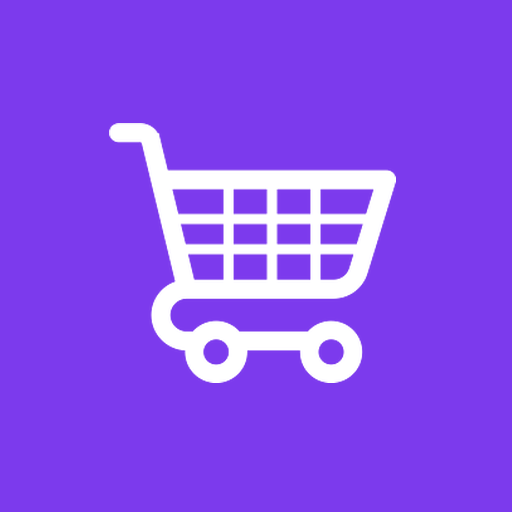
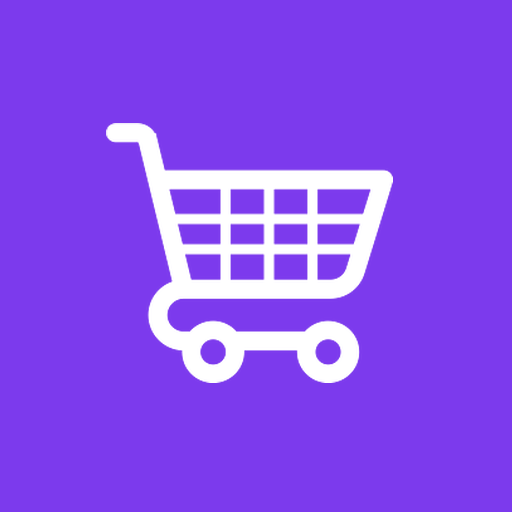
feat: detalle de prenda sin precios repetidos, historial con existencia inicial, ajustes por modo, comisiones con puntos, categorías deslizables e ícono centrado (v1.18)
Claude-Session: https://claude.ai/code/session_01DhVgd7Et6QmT3shziodnjZ

diff --git a/js/vistas/inventario.js b/js/vistas/inventario.js
@@ -11,6 +11,7 @@ import { comprimirFoto, CLAVE_TOKEN } from '../datos/github-fotos.js';
 
 export const URL_INVENTARIO = 'https://kdnaskrlos.github.io/App-Inventario/data/inventario.json';
 const MOTIVOS = ['Conteo', 'Daño', 'Regalo', 'Llegó del taller', 'Otro'];
+const MOTIVO_TEXTO = { inicial: 'Existencia inicial', importación: 'Importación', venta: 'Venta', apartado: 'Apartado', anulación: 'Anulación', cancelación: 'Cancelación' };
 const norm = s => String(s || '').normalize('NFD').replace(/\p{Diacritic}/gu, '').toLowerCase();
 const plural = (n, uno, varios) => `${n} ${n === 1 ? uno : varios}`;
 
@@ -53,8 +54,8 @@ function abrirHistorial(ctx, p) {
   const quitar = ctx.almacen.escuchar('movimientos', l => {
     const lista = l.sort((a, b) => b.fecha.localeCompare(a.fecha)).slice(0, 60);
     caja.replaceChildren(...(lista.length ? lista.map(m => h('div', { class: 'mov' },
-      h('span', {}, `${m.motivo}${m.nota ? ' · ' + m.nota : ''}`, h('span', { class: 'nota' }, ` · ${fechaHora(m.fecha)} · @${m.usuario || '—'}`)),
-      h('b', { class: 'num ' + (m.cantidad < 0 ? 'neg' : 'pos') }, `${m.cantidad > 0 ? '+' : ''}${m.cantidad}`))) : [h('p', { class: 'nota' }, 'Sin movimientos.')]));
+      h('span', {}, `${MOTIVO_TEXTO[m.motivo] || m.motivo}${m.nota ? ' · ' + m.nota : ''}`, h('span', { class: 'nota' }, ` · ${fechaHora(m.fecha)} · @${m.usuario || '—'}`)),
+      h('b', { class: 'num ' + (m.cantidad < 0 ? 'neg' : 'pos') }, `${m.cantidad > 0 ? '+' : ''}${m.cantidad}`))) : [h('p', { class: 'nota' }, `Sin movimientos registrados. Existencia actual: ${p.existencia}.`)]));
   }, { sku: p.sku });
   v.alCerrar = quitar;
 }
@@ -77,19 +78,30 @@ function abrirOferta(ctx, g) {
   });
 }
 
+const mismos = (xs, f) => xs.every(x => JSON.stringify(f(x)) === JSON.stringify(f(xs[0])));
+
+function bloquePrecios(ctx, p, costo, verCostos) {
+  return h('div', { class: 'precios' }, ...p.precios.map((pr, i) => h('div', { class: 'precio-tramo' }, h('span', { class: 'nota' }, etiquetaTramo(i, ctx.ajustes.tramos)), h('b', { class: 'num' }, pr ? fmtCop(pr) : '—'))),
+    verCostos ? h('div', { class: 'precio-tramo costo' }, h('span', { class: 'nota' }, 'Costo'), h('b', { class: 'num' }, costo != null ? fmtCop(costo) : '—')) : null);
+}
+
+// Detalle de una prenda: precios una sola vez (si son iguales en todas las tallas) y una fila por talla.
 function abrirGrupo(ctx, g, costos) {
-  const aj = ctx.ajustes;
   const verCostos = ctx.puedeVer('verCostos');
+  const vs = g.variantes.sort((a, b) => a.sku.localeCompare(b.sku, 'es', { numeric: true }));
+  const iguales = mismos(vs, p => [p.precios, costos[p.sku]?.costo ?? null]);
+  const oferta = vs.find(p => p.oferta?.activa)?.oferta;
   const cont = h('div', { class: 'pila detalle-grupo' },
-    g.variantes.sort((a, b) => a.sku.localeCompare(b.sku, 'es', { numeric: true })).map(p => h('div', { class: 'variante', 'data-sku': p.sku },
-      h('div', { class: 'var-cab' },
-        h('b', {}, `Talla ${p.talla || '—'}`), h('span', { class: `est ${colorExistencia(p)}` }, `${p.existencia} disp.`),
-        p.oferta?.activa ? h('span', { class: 'est y' }, `Oferta ${p.oferta.pct}%`) : null,
-        h('span', { class: 'nota' }, p.codigo ? `Código ${p.codigo}` : p.sku)),
-      h('div', { class: 'precios' }, ...p.precios.map((pr, i) => h('div', { class: 'precio-tramo' }, h('span', { class: 'nota' }, etiquetaTramo(i, aj.tramos)), h('b', { class: 'num' }, pr ? fmtCop(pr) : '—'))),
-        verCostos ? h('div', { class: 'precio-tramo costo' }, h('span', { class: 'nota' }, 'Costo'), h('b', { class: 'num' }, costos[p.sku]?.costo != null ? fmtCop(costos[p.sku].costo) : '—')) : null),
-      ctx.puedeVer('verCostos') || puedeAdmin(ctx, 'ajustarInventario') ? h('div', { class: 'acciones' },
-        ctx.puedeVer('verCostos') ? h('button', { class: 'btn', onclick: () => abrirHistorial(ctx, p) }, icono('historial'), 'Historial') : null,
+    oferta ? h('span', { class: 'est y' }, `Oferta ${oferta.pct}%`) : null,
+    iguales ? h('div', { class: 'pila' }, h('div', { class: 'sec-m' }, 'PRECIO POR CANTIDAD'), bloquePrecios(ctx, vs[0], costos[vs[0].sku]?.costo, verCostos)) : null,
+    h('div', { class: 'sec-m' }, 'TALLAS'),
+    vs.map(p => h('div', { class: 'talla-fila', 'data-sku': p.sku },
+      h('div', { class: 'tf-info' },
+        h('div', { class: 'var-cab' }, h('b', {}, `Talla ${p.talla || '—'}`), h('span', { class: `est ${colorExistencia(p)}` }, `${p.existencia} disp.`)),
+        h('span', { class: 'nota' }, p.codigo ? `Código ${p.codigo}` : p.sku),
+        iguales ? null : bloquePrecios(ctx, p, costos[p.sku]?.costo, verCostos)),
+      verCostos || puedeAdmin(ctx, 'ajustarInventario') ? h('div', { class: 'acciones' },
+        verCostos ? h('button', { class: 'btn', 'aria-label': `Historial talla ${p.talla}`, onclick: () => abrirHistorial(ctx, p) }, icono('historial'), 'Historial') : null,
         puedeAdmin(ctx, 'ajustarInventario') ? h('button', { class: 'btn', onclick: () => abrirAjuste(ctx, p) }, icono('caja'), 'Ajustar') : null) : null)));
   const acciones = puedeAdmin(ctx, 'ofertas') ? h('div', { class: 'acciones' }, h('button', { class: 'btn', onclick: () => abrirOferta(ctx, g) }, icono('etiqueta'), 'Oferta')) : null;
   abrirVentana({ titulo: `${g.producto}${g.color ? ' · ' + g.color : ''}`, contenido: cont, acciones });
@@ -191,7 +203,7 @@ registrarVista('/inventario', {
         return h('button', { class: 'grupo-inv', 'data-grupo': g.grupo, onclick: () => abrirGrupo(ctx, g, costos) },
           h('div', { class: 'mini-foto' }, g.foto ? h('img', { src: g.foto, alt: '' }) : icono('franela')),
           h('div', { class: 'gi-info' }, h('b', {}, g.producto), h('div', { class: 'nota' }, [g.color, plural(total, 'unidad', 'unidades')].filter(Boolean).join(' · ')),
-            h('div', { class: 'mini-tallas' }, ...g.variantes.map(p => h('span', { class: `est ${colorExistencia(p)}` }, `${p.talla || p.sku} ${p.existencia}`)))));
+            h('div', { class: 'mini-tallas' }, ...g.variantes.map(p => h('span', { class: `est ${colorExistencia(p)}` }, `T${p.talla || p.sku} · ${p.existencia}`)))));
       }) : [h('div', { class: 'vacio' }, busqueda ? 'No hay prendas con esa búsqueda' : 'Todavía no hay productos')]));
       if (ctx.puedeVer('verCostos')) {
         const v = valorInventario(Object.values(ctx.productos), costos);

diff --git a/js/vistas/ajustes.js b/js/vistas/ajustes.js
@@ -8,16 +8,35 @@ import { NOMBRE_ROL, cambiarTema } from './cuenta.js';
 
 const campo = (id, etiqueta, attrs = {}) => h('div', { class: 'campo' }, h('label', { for: id }, etiqueta), h('input', { class: 'inp', id, autocomplete: 'off', ...attrs }));
 const seccion = (titulo, ic, ...hijos) => h('section', { class: 'tarjeta pila' }, h('h2', { class: 'sec-t' }, icono(ic), titulo), ...hijos);
+// Monto de comisión: se muestra con punto de miles (4.000); vacío = usa el tramo anterior.
+const montoCom = (id, valor, ejemplo, alCambiar) => {
+  const inp = h('input', { class: 'inp num', id, inputmode: 'numeric', value: valor != null ? fmtCop(valor) : '', placeholder: ejemplo, 'aria-label': id.endsWith('normal') ? 'Comisión normal' : 'Comisión reducida' });
+  inp.addEventListener('input', () => alCambiar(parseMonto(inp.value, 'COP')));
+  inp.addEventListener('blur', () => { const n = parseMonto(inp.value, 'COP'); inp.value = n != null ? fmtCop(n) : ''; });
+  return inp;
+};
 const guardado = r => toast(r.ok ? 'Guardado' : 'No se pudo guardar', { malo: !r.ok });
 
 function tasas(ctx) {
   const aj = ctx.ajustesTasas || {};
-  const modo = h('select', { class: 'inp', id: 'aj-bs-modo' }, ...[['binance', 'Binance P2P (automático)'], ['bcv', 'BCV oficial (automático)'], ['manual', 'Manual']].map(([v, t]) => h('option', { value: v, selected: (aj.bsModo || 'binance') === v }, t)));
+  // Modo de la tasa de Bs con botones (no la lista del teléfono) y solo el campo que aplica a cada modo.
+  const modo = { value: aj.bsModo || 'binance' };
+  const MODOS = [['binance', 'Binance', 'Automático desde Binance P2P, más el recargo.'], ['bcv', 'BCV', 'Automático, dólar oficial del BCV.'], ['manual', 'Manual', 'La escribes tú.']];
+  const segModo = h('div', { class: 'segmentado', id: 'aj-bs-modo', role: 'group', 'aria-label': 'Bolívares por dólar' });
+  const ayuda = h('p', { class: 'nota chica' });
+  const recargo = campo('aj-recargo', 'Recargo sobre Binance (Bs)', { inputmode: 'decimal', value: aj.bsRecargo != null ? fmtDec(aj.bsRecargo) : '' });
+  const manualC = campo('aj-bs-manual', 'Tasa manual de Bs', { inputmode: 'decimal', value: aj.bsManual ? fmtDec(aj.bsManual) : '' });
+  const pintarModo = () => {
+    segModo.replaceChildren(...MODOS.map(([v, t]) => h('button', { type: 'button', 'data-modo': v, 'aria-pressed': String(v === modo.value), onclick: () => { modo.value = v; pintarModo(); } }, t)));
+    ayuda.textContent = MODOS.find(m => m[0] === modo.value)[2];
+    recargo.hidden = modo.value !== 'binance';
+    manualC.hidden = modo.value !== 'manual';
+  };
+  pintarModo();
   const el = seccion('Tasas', 'monedas',
     campo('aj-cop', 'Pesos por dólar (COP)', { inputmode: 'decimal', value: aj.copPorUsd ? fmtCop(aj.copPorUsd) : '' }),
-    h('div', { class: 'campo' }, h('label', { for: 'aj-bs-modo' }, 'Bolívares por dólar'), modo),
-    campo('aj-recargo', 'Recargo sobre Binance (Bs)', { inputmode: 'decimal', value: aj.bsRecargo != null ? fmtDec(aj.bsRecargo) : '' }),
-    campo('aj-bs-manual', 'Tasa manual de Bs', { inputmode: 'decimal', value: aj.bsManual ? fmtDec(aj.bsManual) : '' }),
+    h('div', { class: 'campo' }, h('label', {}, 'Bolívares por dólar'), segModo, ayuda),
+    recargo, manualC,
     h('div', { class: 'acciones' }, h('button', { class: 'btn primary', id: 'aj-tasas-guardar', onclick: async () => {
       const v = (id, m) => parseMonto(el.querySelector('#' + id).value, m);
       const ahora = new Date().toISOString();
@@ -41,14 +60,14 @@ function general(ctx) {
     h('h3', { class: 'sub-t' }, 'Formas de pago'),
     h('div', { class: 'pila' }, ...formas.map(f => h('div', { class: 'forma-aj' },
       h('input', { class: 'inp', value: f.nombre, 'aria-label': 'Nombre', oninput: e => { f.nombre = e.target.value; } }),
-      h('span', { class: 'nota' }, NOMBRE_MONEDA[f.moneda]),
+      h('span', { class: `nota ${{ COP: 'c-cop', USD: 'c-usd', BS: 'c-bs' }[f.moneda]}` }, NOMBRE_MONEDA[f.moneda]),
       h('label', { class: 'interruptor' }, h('input', { type: 'checkbox', checked: f.activa !== false, onchange: e => { f.activa = e.target.checked; } }), 'Activa')))),
     h('h3', { class: 'sub-t' }, 'Tramos (desde cuántas prendas)'),
     h('div', { class: 'rejilla-aj' }, ...tramos.map((t, i) => h('div', { class: 'campo' }, h('label', {}, `Tramo ${i + 1}`), h('input', { class: 'inp num', inputmode: 'numeric', value: String(t), disabled: i === 0, oninput: e => { tramos[i] = Number(e.target.value) || tramos[i]; } })))),
     h('h3', { class: 'sub-t' }, 'Comisión por prenda (si el producto no trae la suya)'),
     h('div', { class: 'rejilla-aj' }, ...coms.map((c, i) => h('div', { class: 'campo' }, h('label', {}, `${etiquetaTramo(i, tramos)}: normal / reducida`),
-      h('div', { class: 'dos' }, h('input', { class: 'inp num', inputmode: 'numeric', value: c ? String(c.valor) : '', placeholder: '—', oninput: e => { const n = parseMonto(e.target.value, 'COP'); coms[i] = n == null ? null : { tipo: 'Fijo', valor: n, reducida: coms[i]?.reducida ?? n }; } }),
-        h('input', { class: 'inp num', inputmode: 'numeric', value: c ? String(c.reducida) : '', placeholder: '—', oninput: e => { const n = parseMonto(e.target.value, 'COP'); if (coms[i]) coms[i].reducida = n ?? coms[i].valor; } }))))),
+      h('div', { class: 'dos' }, montoCom(`aj-com-${i}-normal`, c ? c.valor : null, i ? `Igual que ${etiquetaTramo(i - 1, tramos)}` : '', n => { coms[i] = n == null ? null : { ...(coms[i] || { tipo: 'Fijo' }), valor: n, reducida: coms[i]?.reducida ?? n }; }),
+        montoCom(`aj-com-${i}-reducida`, c ? c.reducida : null, i ? `Igual que ${etiquetaTramo(i - 1, tramos)}` : '', n => { if (coms[i]) coms[i].reducida = n ?? coms[i].valor; }))))),
     h('div', { class: 'acciones' }, h('button', { class: 'btn primary', onclick: async () => {
       for (let i = 1; i < tramos.length; i++) if (tramos[i] <= tramos[i - 1]) { toast('Cada tramo debe empezar después del anterior', { malo: true }); return; }
       const v = id => el.querySelector('#' + id).value;

diff --git a/css/componentes.css b/css/componentes.css
@@ -353,3 +353,22 @@ button.pill.vieja>span{background:var(--y-bg);border-color:var(--y-bd)}
 .cal-resumen{text-align:center}
 /* Personas en comisiones */
 .segmentado.personas{max-width:420px}
+
+/* Detalle de prenda: una fila por talla */
+.talla-fila{display:flex;justify-content:space-between;align-items:center;gap:10px;flex-wrap:wrap;border-top:1px solid var(--line);padding-top:10px}
+.tf-info{display:flex;flex-direction:column;gap:4px;min-width:0;flex:1}
+/* Inventario en el teléfono: valores en una fila compacta */
+@media (max-width:760px){
+  .valor-inv{grid-template-columns:1fr 1fr;gap:8px}
+  .valor-inv .tile{padding:10px 12px}
+  .valor-inv .tile .val{font-size:18px;margin-top:2px}
+  .filtros{flex-wrap:nowrap;overflow-x:auto;scrollbar-width:none;margin:0 -12px;padding:0 12px}
+  .filtros::-webkit-scrollbar{display:none}
+  .filtros .chip{flex:none}
+}
+
+/* Ajustes: formas de pago con el nombre completo a lo ancho */
+@media (max-width:760px){
+  .forma-aj{grid-template-columns:minmax(0,1fr) auto;row-gap:2px}
+  .forma-aj .inp{grid-column:1/-1}
+}

diff --git a/js/datos/memoria.js b/js/datos/memoria.js
@@ -21,7 +21,10 @@ export function crearMemoria(datos) {
     col.usuarios.set(uid, { uid, usuario: u.usuario, nombre: u.nombre, rol: u.rol, activo: true });
     pins.set(uid, u.pin);
   }
-  for (const p of datos.productos || []) col.productos.set(p.sku, copia(p));
+  for (const p of datos.productos || []) {
+    col.productos.set(p.sku, copia(p));
+    if (p.existencia) col.movimientos.set('ini-' + p.sku, { id: 'ini-' + p.sku, sku: p.sku, cantidad: p.existencia, motivo: 'inicial', ref: null, nota: '', usuario: 'admin', fecha: new Date(Date.now() - 864e5).toISOString() });
+  }
   for (const c of datos.costos || []) col.costos.set(c.sku, copia(c));
   for (const c of datos.clientes || []) col.clientes.set(c.telefono, copia(c));
   for (const [k, v] of Object.entries(datos.ajustes || {})) col.ajustes.set(k, copia({ id: k, ...v }));

diff --git a/sw.js b/sw.js
@@ -1,5 +1,5 @@
 // Permite instalar la app y abrirla sin internet. Las ventas las guarda Firebase (con su propia caché).
-const CACHE = 'pos-v1.17';
+const CACHE = 'pos-v1.18';
 const LIBS = 'libs-v1'; // Firebase y la fuente: archivos con versión fija
 const FOTOS = 'fotos-v1';
 const SHELL = ['./', './index.html', './config.js', './manifest.webmanifest', './icono-192.png', './icono-512.png', './logo-carrito.png',

diff --git a/js/version.js b/js/version.js
@@ -1,2 +1,2 @@
 // Sube en cada cambio publicado, junto con CACHE en sw.js.
-export const APP_VERSION = 'v1.17';
+export const APP_VERSION = 'v1.18';
